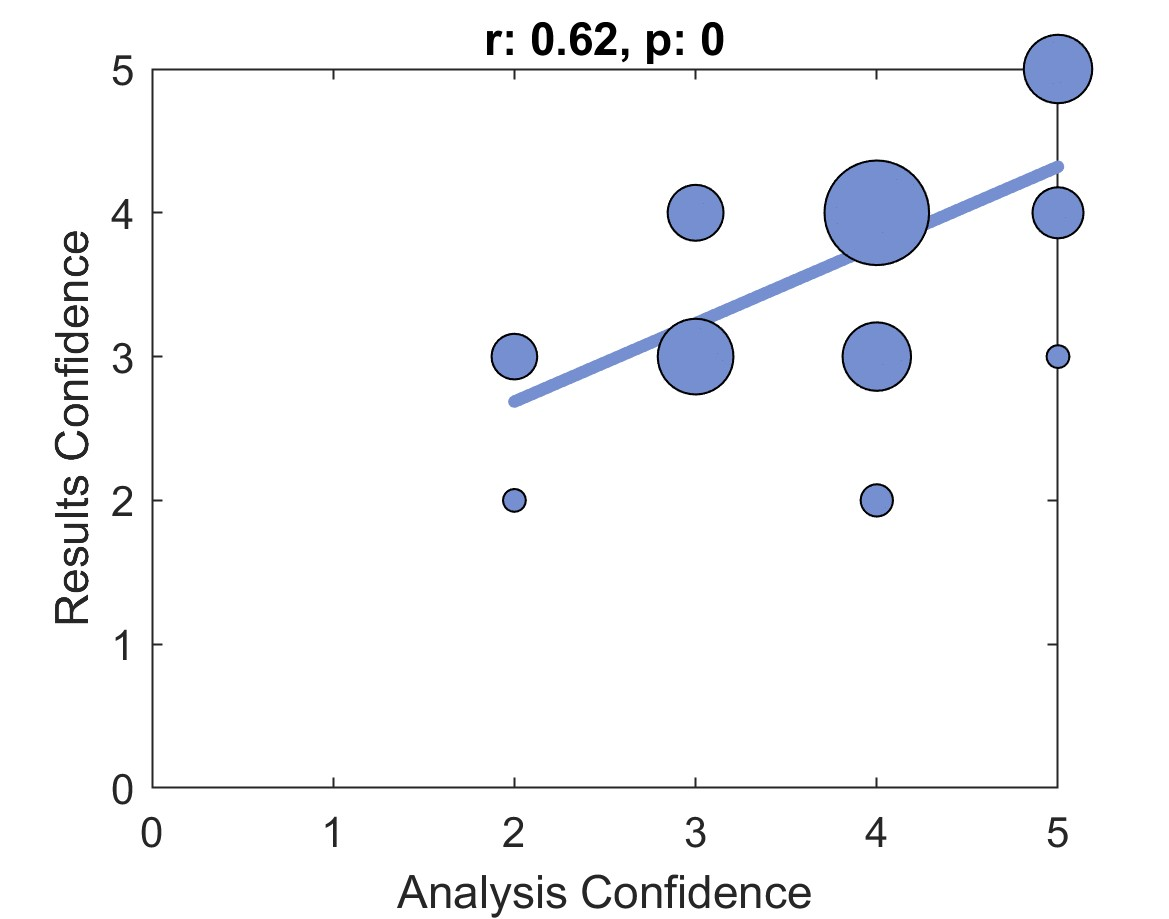
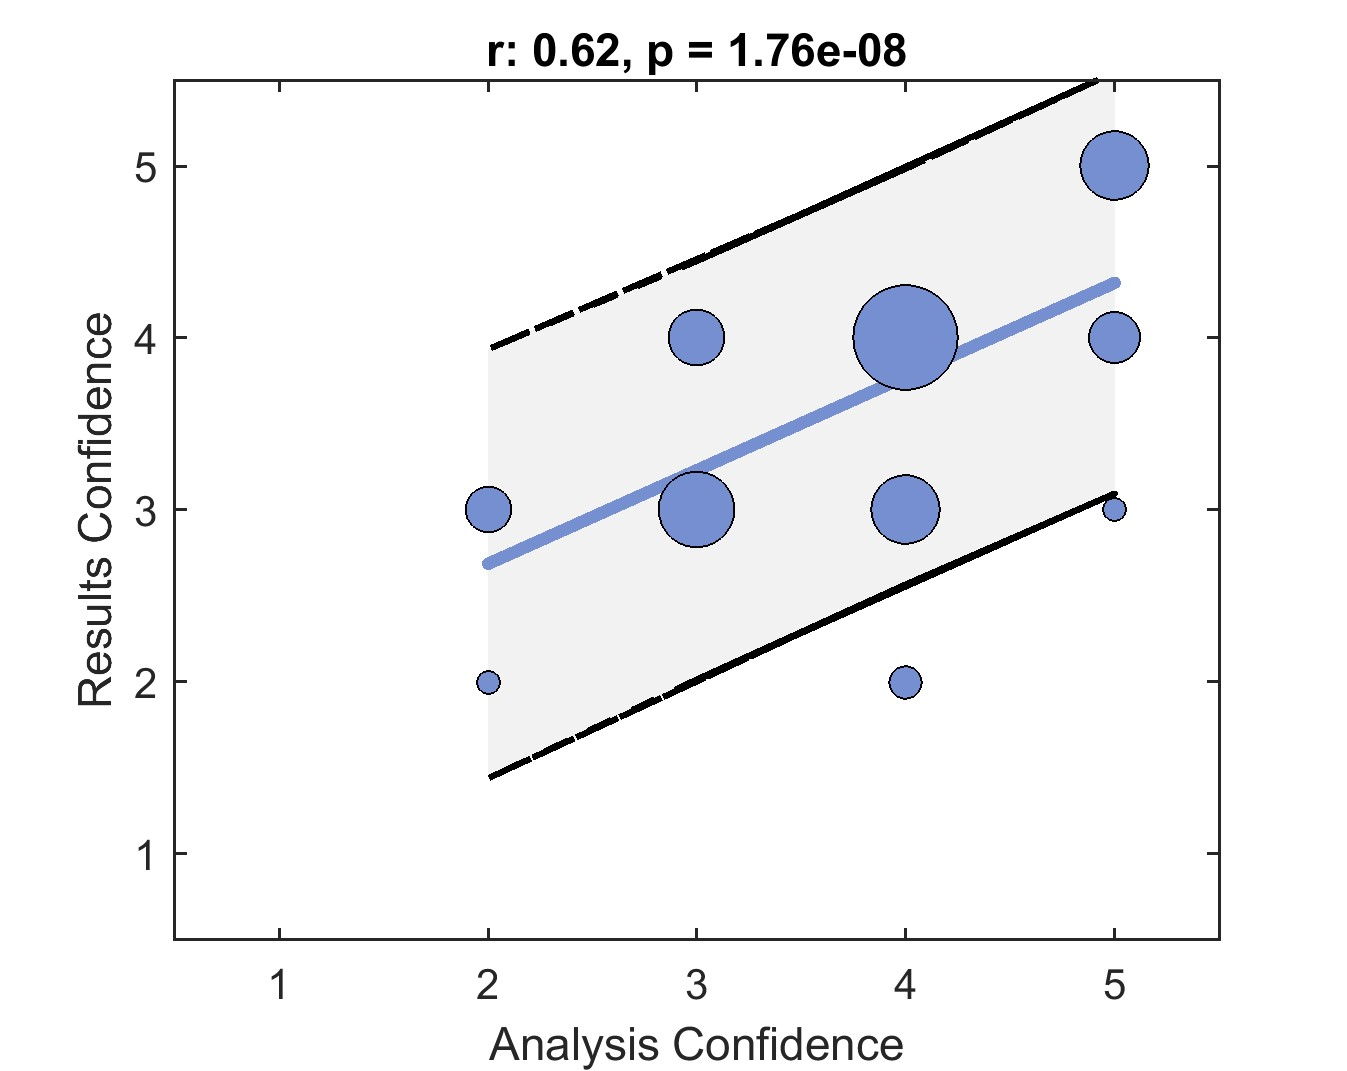
Figure 6 revised
according to reviewer comments

diff --git a/fig6/utils/fig_analysis_vs_results_conf.m b/fig6/utils/fig_analysis_vs_results_conf.m
@@ -3,58 +3,76 @@ function fig_analysis_vs_results_conf(num, cmap)
 % INPUT
 % num: Numerical output read from freshdata.csv
 
-% get rid of NaNs
-a_conf = num(:,126); ind = ~isnan(a_conf); a_conf=a_conf(ind);
-r_conf = num(:,127); ind = ~isnan(r_conf); r_conf=r_conf(ind);
+% Get rid of NaNs
+a_conf = num(:,126); ind = ~isnan(a_conf); a_conf = a_conf(ind);
+r_conf = num(:,127); ind = ~isnan(r_conf); r_conf = r_conf(ind);
 total_defaults = sum(num(:,154:159),2); total_defaults = total_defaults(ind);
 
 x = [a_conf'; r_conf']';
 
-% get number of repetition of the same two pair of points (e.g. 5 and 5)
+% Get number of repetitions of the same pair of points (e.g. 5 and 5)
 for i = 1:5
     for j = 1:5
         I(i,j) = sum(x(:, 1) == i & x(:, 2) == j);
     end
 end
 
-% create a size vector for scatter plot, size being the number of
-% repetitions
+% Create a size vector for scatter plot, size being the number of repetitions
 sz = [];
 for i = 1:size(x,1)
-    sz = [sz I(x(i,1),x(i,2))] ;
+    sz = [sz I(x(i,1),x(i,2))];
 end
-
 
 figure;
 
-P = polyfit(a_conf,r_conf,1); yfit = polyval(P,a_conf);
-[RHO,PVAL] = corr(a_conf,r_conf);
-% Display the results
+% Fit the linear model and compute the confidence intervals
+[P, S] = polyfit(a_conf, r_conf, 1); % Linear fit (1st degree)
+yfit = polyval(P, a_conf);           % Fitted values
+[Yfit_CI, delta] = polyconf(P, a_conf, S, 'alpha', 0.05); % 95% confidence interval
+
+% Plot the confidence intervals first
+fill([a_conf; flipud(a_conf)], [Yfit_CI + delta; flipud(Yfit_CI - delta)], ...
+    [0.9 0.9 0.9], 'EdgeColor', 'none', 'FaceAlpha', 0.5); % Shaded area for CI
+hold on;
+
+% Plot the regression line
+plot(a_conf, yfit, '-', 'LineWidth', 3, 'Color', cmap(40,:));
+
+% Plot the confidence interval boundaries
+plot(a_conf, Yfit_CI + delta, 'k--', 'LineWidth', 1.5); % Upper confidence bounds
+plot(a_conf, Yfit_CI - delta, 'k--', 'LineWidth', 1.5); % Lower confidence bounds
+
+% Plot the scatter plot on top
+scatter(a_conf, r_conf, sz * 30, 'ok', 'MarkerFaceColor', cmap(40,:)); 
+
+% Correlation and p-value calculation
+[RHO, PVAL] = corr(a_conf, r_conf);
 disp('Correlation Coefficient (RHO) for Analysis Confidence vs Results Confidence:');
 disp(RHO);
 disp('P-Value (PVAL):');
 disp(PVAL);
-h0 = plot(a_conf,yfit,'-','LineWidth', 3, 'color',cmap(40,:));
-hold on;
-scatter(a_conf,r_conf,sz*30,'ok', 'MarkerFaceColor', cmap(40,:)); hold;
+
+% Set axis labels and limits
 xlabel('Analysis Confidence');
 ylabel('Results Confidence');
 xticks(0:5); % Set the x-axis ticks to integer values
 yticks(0:5);
-xlim([0 5]);
-ylim([0 5]);
+xlim([0.5 5.5]);
+ylim([0.5 5.5]);
 
-title(['r: ' num2str(round(RHO,2),2), ', p: ' num2str(round(PVAL,2),2)]);
+% Title with correlation and p-value
+title(['r: ' num2str(round(RHO,2),2), ', p = ' num2str(PVAL, '%.2e')]);
 
-% corr between confidence and total number of default use
-[rho, p] = corr(a_conf,total_defaults);
+% Correlation between confidence and total number of defaults
+[rho, p] = corr(a_conf, total_defaults);
 disp('Correlation Coefficient (RHO) for Analysis Confidence vs Total Number of Default Use:');
 disp(rho);
 disp('P-Value (PVAL):');
 disp(p);
 
-[rho, p] = corr(r_conf,total_defaults);
+[rho, p] = corr(r_conf, total_defaults);
 disp('Correlation Coefficient (RHO) for Results Confidence vs Total Number of Default Use:');
 disp(rho);
 disp('P-Value (PVAL):');
 disp(p);
+end

diff --git a/fig6/plot_fig6.m b/fig6/plot_fig6.m
@@ -8,7 +8,7 @@ clear all;
 flag_save = 0;
 
 % Directory - Replace with your local path for FRESH
-dirfresh = 'yourlocalpath\FRESH';
+% dirfresh = 'yourlocalpath\FRESH';
 addpath(genpath(dirfresh));
 dirsave = 'yourlocalpathforsavingfigures';
 
